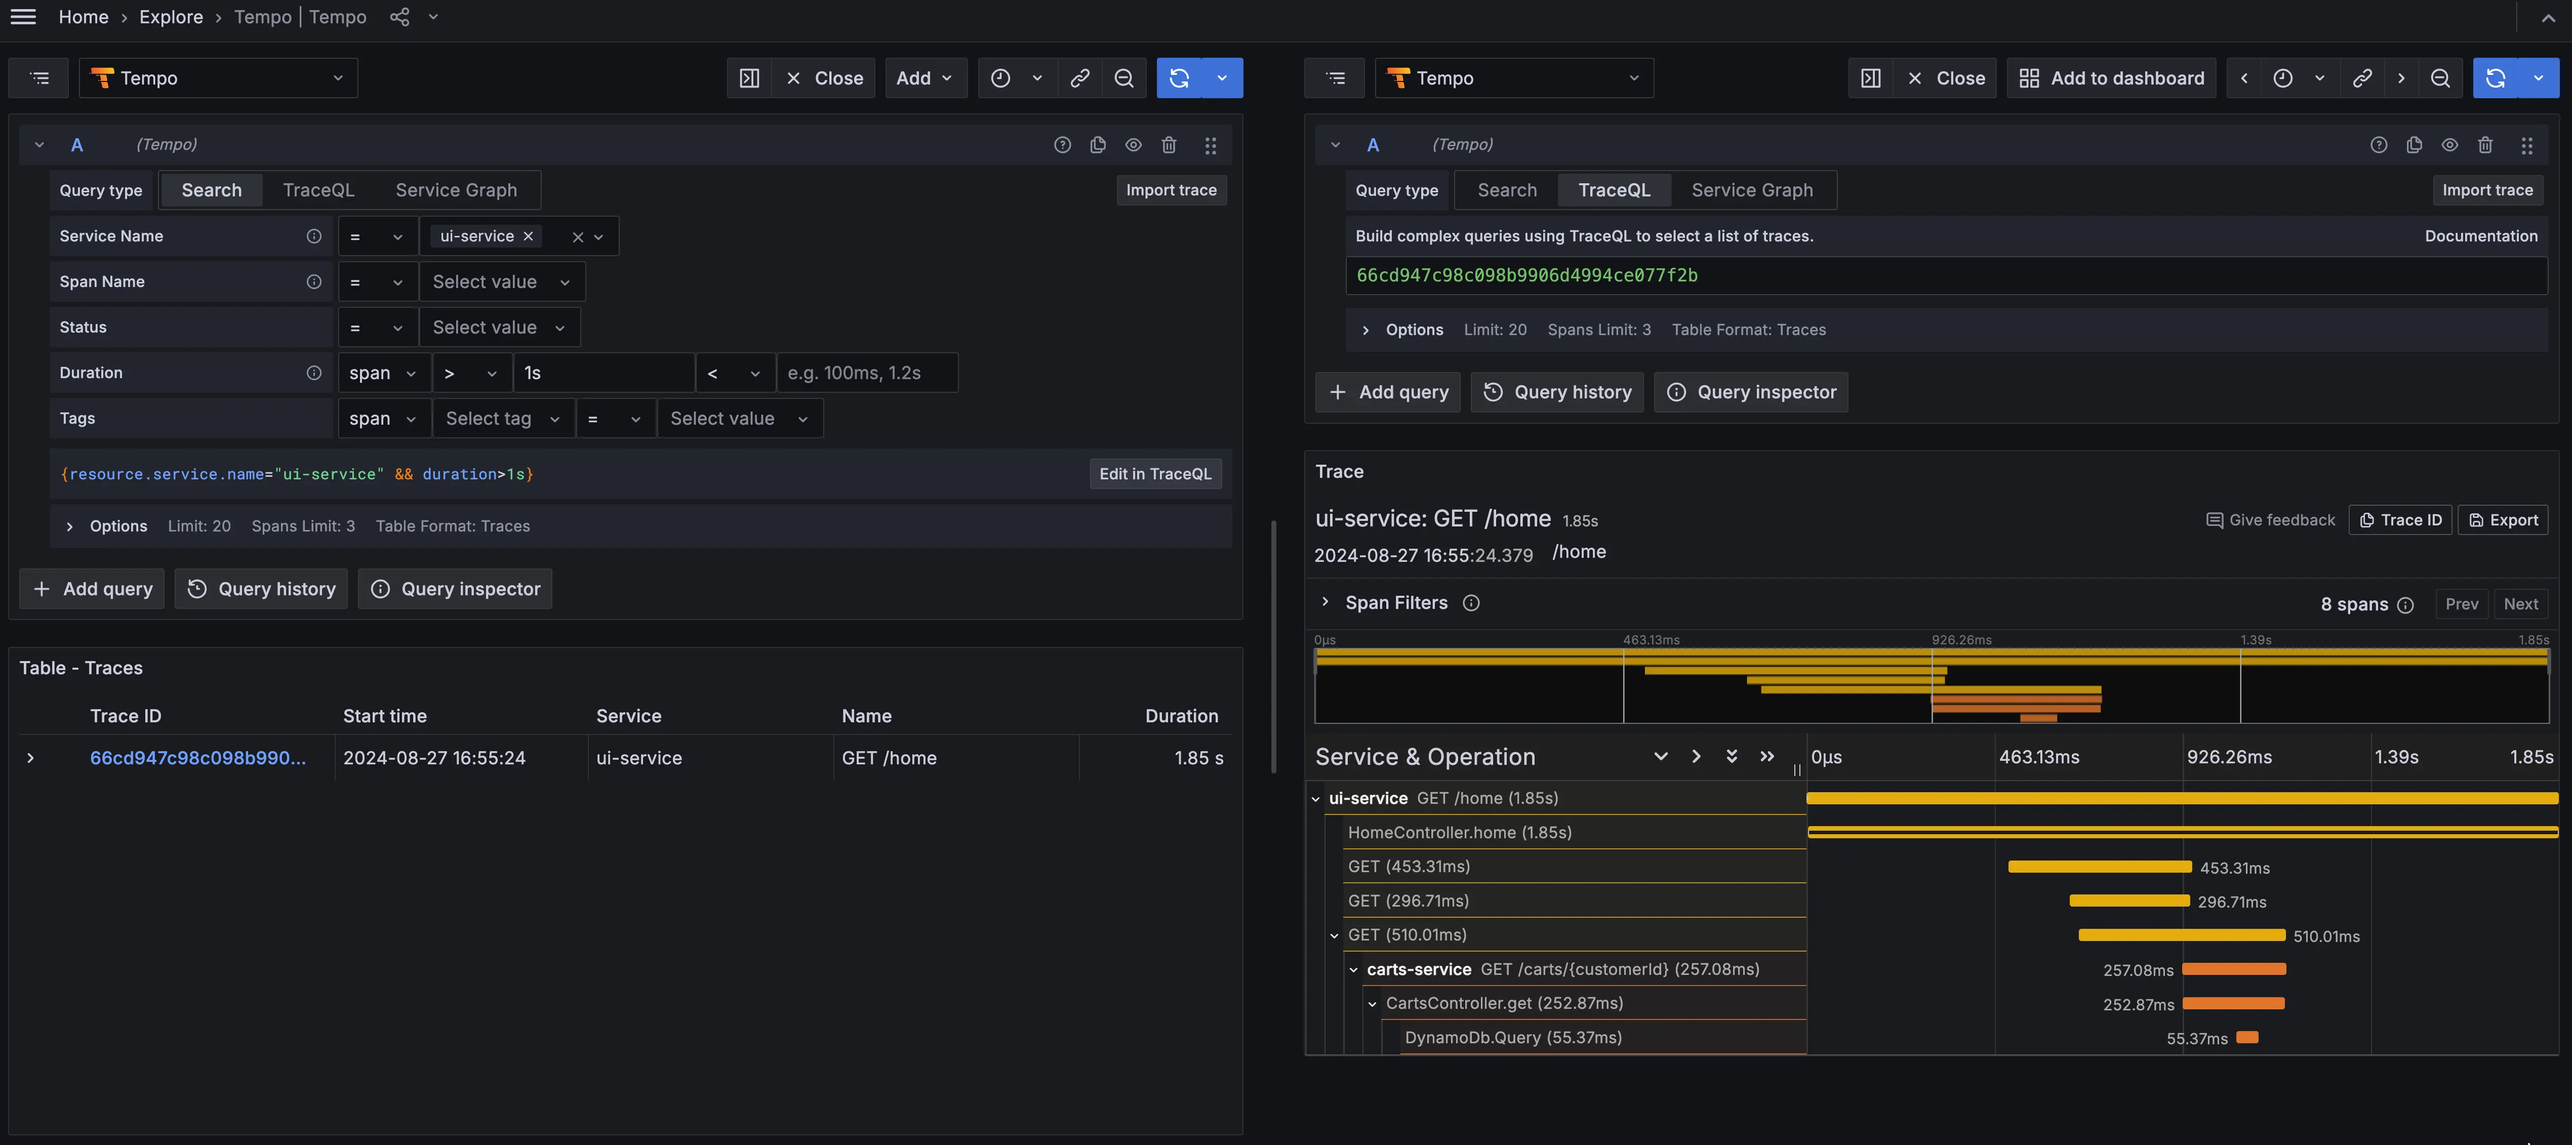
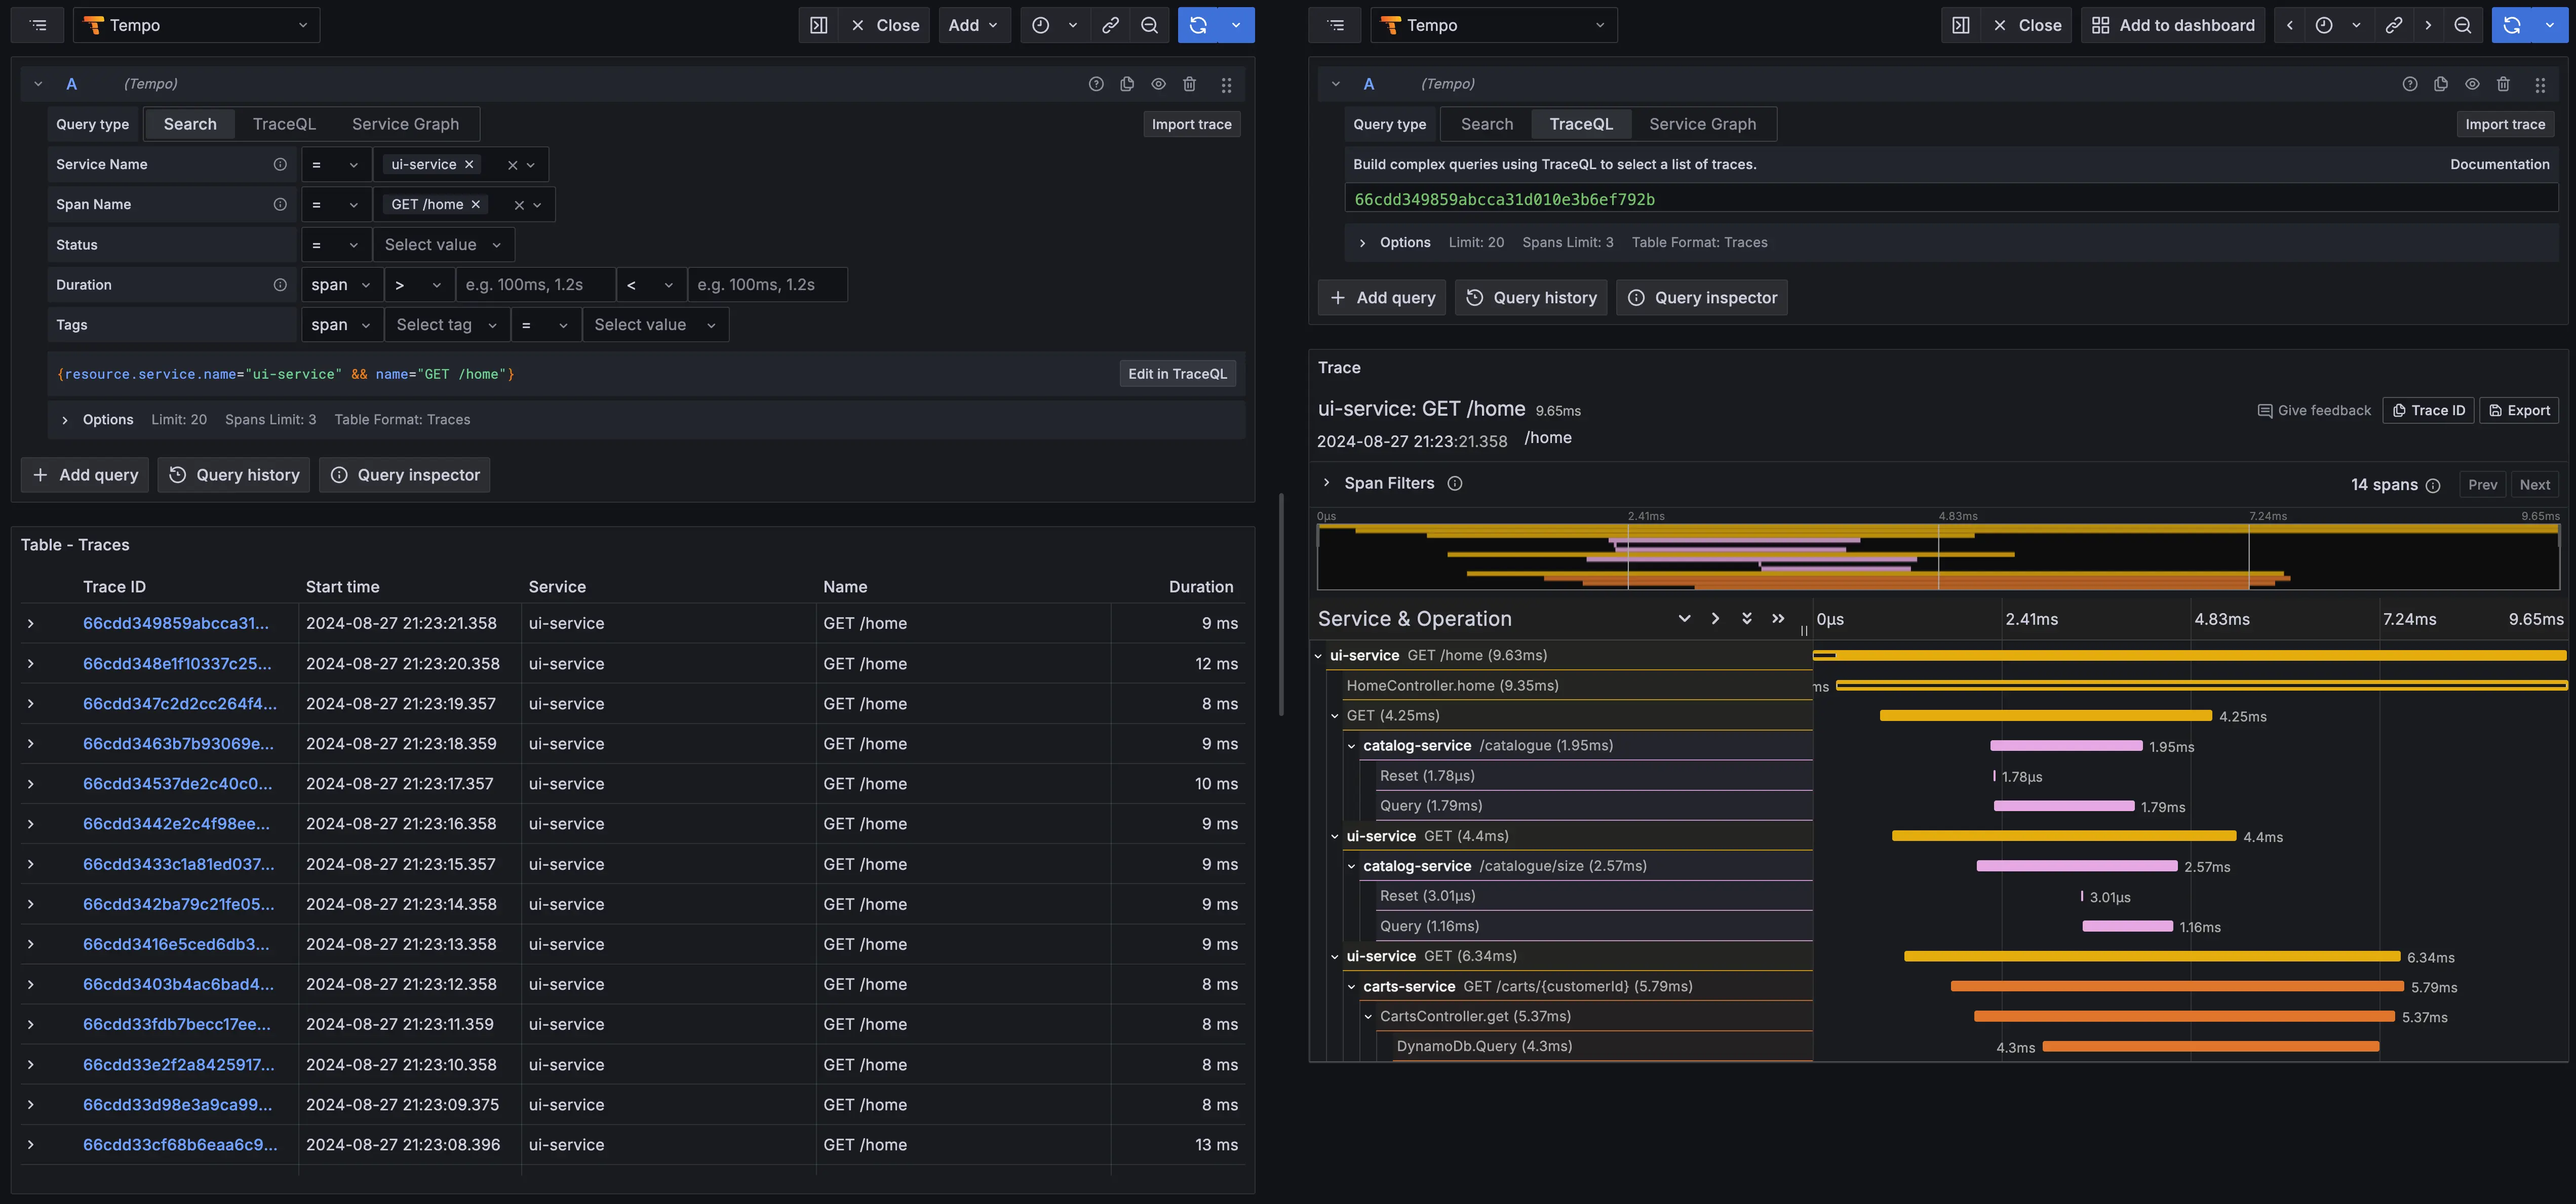
Update website docs for OSS module.

diff --git a/website/docs/observability/oss/metrics-logs-traces/application-traces.md b/website/docs/observability/oss/metrics-logs-traces/application-traces.md
@@ -3,9 +3,25 @@ title: "Application traces"
 sidebar_position: 70
 ---
 
-TODO
+In this section we'll look at collecting and exploring the traces from our workloads. The applications were already instrumented by using OpenTelemetry SDKs and OpenTelemetry collector was configured with the OTLP receiver and exporter to ingest, batch and ship the trace data to Tempo.
+
+To visualize them on Grafana, go to the Explore page and then select Loki as the datasource and then,
+
+- Select `Search` for the Query type
+- Filter `Service Name = ui-service`
+- Filter `Span Name = GET /home`
+
+Then, click on a link for a specific trace on the result table to populate the trace details panel.
+
+You should see the result similar to the capture below. For this example trace, we can see that,
+
+- The total round trip time for this request was 9.63ms
+- UI service made 3 parallel requests (2 requests to catalog service and 1 request to carts service)
+- Catalog and carts services spent a significant amount of time on querying the data from MySQL and DynamoDB databases
 
 ![Tempo Traces](./assets/traces-explore.webp)
+
+See [Language APIs & SDKs](https://opentelemetry.io/docs/languages/) doc on OpenTelemetry website to learn more about code instrumentation support for the popular programming languages.
 
 Once you're satisfied with observing the metrics, logs and traces, you can stop the load generator using the below command.
 
